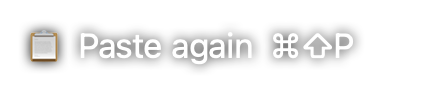
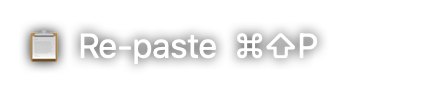
The ⌘⇧P row says Re-paste instead of Paste again
Victor: "The label for the tooltip for Command+Shift+P should be 'Re-paste'
instead of 'Paste Again'." The row, the /test/state report, the twin-row
eval and the docs quoting it; his original quote in PasteHint stays verbatim.

Changed region(s): [[0.1789, 0.3043, 0.8349, 0.7391]]

diff --git a/docs/overlay-states.html b/docs/overlay-states.html
@@ -139,9 +139,9 @@
       <section class="card" id="bound-idle">
         <header>
           <h3>Bound, standing by</h3>
-          <div class="tags"><span class="tag tag-chip" title="bare text beside the cursor — no blur, no shadow, no ✕">chip</span><span class="tag">alpha 0.80</span><span class="tag">48×45 pt</span></div>
+          <div class="tags"><span class="tag tag-chip" title="bare text beside the cursor — no blur, no shadow, no ✕">chip</span><span class="tag">alpha 0.80</span><span class="tag">121×46 pt</span></div>
         </header>
-        <div class="shot"><img src="states/bound-idle.png" width="48" height="45" style="opacity:0.8" alt="Bound, standing by"></div>
+        <div class="shot"><img src="states/bound-idle.png" width="121" height="46" style="opacity:0.8" alt="Bound, standing by"></div>
         <p class="when">From ⌘⌃B (or ◀ + 🔼, or ◀ + 🛞 with Logi gestures off) until something happens.</p>
         <p class="note">A microphone, and nothing else. The <code>folder@branch</code> it used to spell out is the answer to a question only asked at the moment he opens his mouth, and it was being said beside the pointer all day instead — so it now waits for the dictation. <strong>The same glyph for every destination</strong>: at rest the only thing worth saying is <em>armed</em>, and bound has to look different from unbound, where there is no chip at all. Which terminal it is, is a menu away.</p>
         <code class="slug">bound-idle</code>
@@ -294,9 +294,9 @@
       <section class="card" id="listening-overrun-blinking">
         <header>
           <h3>Nine minutes — one minute left, and it blinks</h3>
-          <div class="tags"><span class="tag tag-chip" title="bare text beside the cursor — no blur, no shadow, no ✕">chip</span><span class="tag">alpha 0.80</span><span class="tag">308×93 pt</span></div>
+          <div class="tags"><span class="tag tag-chip" title="bare text beside the cursor — no blur, no shadow, no ✕">chip</span><span class="tag">alpha 0.80</span><span class="tag">308×117 pt</span></div>
         </header>
-        <div class="shot"><img src="states/listening-overrun-blinking.png" width="308" height="93" style="opacity:0.8" alt="Nine minutes — one minute left, and it blinks"></div>
+        <div class="shot"><img src="states/listening-overrun-blinking.png" width="308" height="117" style="opacity:0.8" alt="Nine minutes — one minute left, and it blinks"></div>
         <p class="when">The tenth minute of a dictation, right up to the hard stop that ends it.</p>
         <p class="note"><strong>The wash is full and now breathes</strong>, about once a second, for the last minute — a state became an event, because there is something to do about it. The words never flicker: what pulses is the ground, so the row stays readable through the minute he is most likely to still be talking into it. <strong>At ten minutes the relay stops the dictation itself</strong> and delivers what it has — the caret, the bound terminal, or the new terminal it was going to spawn — because <em>&quot;orice ar fi fost, legată, nelegată, se termină&quot;</em>, and because ten minutes of speech is not something to throw away for running out of clock. A stop, therefore, never a cancel. Photographed at the dim end of the breath; at the bright end it is the picture above, full width.</p>
         <code class="slug">listening-overrun-blinking</code>
@@ -476,12 +476,12 @@
       </section>
       <section class="card" id="paste-again">
         <header>
-          <h3>Paste again — the keys, after every sentence</h3>
+          <h3>Re-paste — the keys, after every sentence</h3>
           <div class="tags"><span class="tag tag-chip" title="bare text beside the cursor — no blur, no shadow, no ✕">chip</span><span class="tag">alpha 0.80</span><span class="tag">218×46 pt</span></div>
         </header>
-        <div class="shot"><img src="states/paste-again.png" width="218" height="46" style="opacity:0.8" alt="Paste again — the keys, after every sentence"></div>
+        <div class="shot"><img src="states/paste-again.png" width="218" height="46" style="opacity:0.8" alt="Re-paste — the keys, after every sentence"></div>
         <p class="when">Three seconds after every delivered sentence (caret, bound terminal, new session, a held sentence&#x27;s release) and after a cancelled prompt. Never after a cancelled dictation.</p>
-        <p class="note"><strong>An ordinary row</strong>, built like <code>☠ Kamikaze</code>: 📋, <code>Paste again</code>, then <code>⌘⇧P</code> in the chip&#x27;s own face. It was a keycap in a window of its own until 2026-09-23 — a white outline round the keys in another font — and Victor read the border and the font as wrong. Unbound, it is the chip&#x27;s only row, which is what puts the chip beside the pointer.</p>
+        <p class="note"><strong>An ordinary row</strong>, built like <code>☠ Kamikaze</code>: 📋, <code>Re-paste</code>, then <code>⌘⇧P</code> in the chip&#x27;s own face. It was a keycap in a window of its own until 2026-09-23 — a white outline round the keys in another font — and Victor read the border and the font as wrong. Unbound, it is the chip&#x27;s only row, which is what puts the chip beside the pointer.</p>
         <code class="slug">paste-again</code>
       </section>
       <section class="card" id="flash-nothing-to-paste">
@@ -639,7 +639,7 @@
       </section>
     </div>
 <footer>
-  Generated from <code>OverlayStates.swift</code> · repo at 6d546b0 · 23 Sep 2026 · built 23 Sep 2026, 19:26
+  Generated from <code>OverlayStates.swift</code> · repo at 12408b2 · 23 Sep 2026 · built 24 Sep 2026, 07:18
 </footer>
 <button class="toggle" onclick="document.body.classList.toggle('light')">Backdrop: dark / light</button>
 </body>

diff --git a/Sources/WalkieTalkie/RelayWindow.swift b/Sources/WalkieTalkie/RelayWindow.swift
@@ -269,7 +269,7 @@ private let frontLabel = NSTextField(labelWithString: "")
     private let kamikazeRow = NSView()
     private let kamikazeGlyph = NSImageView()
     private let kamikazeInfo = NSTextField(labelWithString: "Kamikaze")
-    /// **`📋 Paste again ⌘⇧P`** (2026-09-23) — for five seconds after every
+    /// **`📋 Re-paste ⌘⇧P`** (2026-09-23) — for five seconds after every
     /// delivered sentence (and a cancelled prompt), the keys that bring the
     /// last text back, whether it went out as a prompt or as a clean dictation.
     /// `PasteHint` decides when; this is only the row.
@@ -283,7 +283,7 @@ private let frontLabel = NSTextField(labelWithString: "")
     /// `evals/test_paste_row.py` keeps it that way.
     private let pasteRow = NSView()
     private let pasteGlyph = NSImageView()
-    private let pasteInfo = NSTextField(labelWithString: "Paste again  \(PasteHint.keys)")
+    private let pasteInfo = NSTextField(labelWithString: "Re-paste  \(PasteHint.keys)")
     /// Elements ⌘-picked in Chrome and still waiting for the sentence they belong
     /// to — how many, and what the newest one was.
     ///
@@ -1823,7 +1823,7 @@ private let frontLabel = NSTextField(labelWithString: "")
             recordWidth = glyphColumn + recordDotGap + ceil(recordInfo.frame.width)
         }
         let pickWidth = pickText.map { glyphRowWidth($0) } ?? 0
-        // The emoji rows (`☠ Kamikaze`, `📋 Paste again ⌘⇧P`) ask for their
+        // The emoji rows (`☠ Kamikaze`, `📋 Re-paste ⌘⇧P`) ask for their
         // width like the recording row does. The paste row is often the only
         // row on the chip, and a chip measured without it is a chip 0 wide.
         var emojiRowsWidth: CGFloat = 0
@@ -2577,7 +2577,7 @@ private let frontLabel = NSTextField(labelWithString: "")
     /// midline. Nothing is clipped, and neither half has to know anything about
     /// the other's font.
     /// **The plain row: an emoji in the icon column and words beside it** —
-    /// `☠ Kamikaze`, `📋 Paste again ⌘⇧P`. One constructor so the rows cannot
+    /// `☠ Kamikaze`, `📋 Re-paste ⌘⇧P`. One constructor so the rows cannot
     /// drift apart in face, size, ink or glyph.
     private func installEmojiRow(_ row: NSView, glyph: NSImageView, label: NSTextField,
                                  emoji: String) {
@@ -4091,7 +4091,7 @@ private let frontLabel = NSTextField(labelWithString: "")
         layoutContent()
     }
 
-    /// The `📋 Paste again ⌘⇧P` row is up — see `pasteRow`; `PasteHint` times it.
+    /// The `📋 Re-paste ⌘⇧P` row is up — see `pasteRow`; `PasteHint` times it.
     private(set) var pasteHint = false
 
     func setPasteHint(_ on: Bool) {

diff --git a/Sources/WalkieTalkie/OverlayStates.swift b/Sources/WalkieTalkie/OverlayStates.swift
@@ -378,9 +378,9 @@ enum OverlayStates {
                 o.flash("⚠ Whisper unavailable — no module named mlx_whisper", duration: 60)
             },
 
-            Shot(slug: "paste-again", group: "Flashes", title: "Paste again — the keys, after every sentence",
+            Shot(slug: "paste-again", group: "Flashes", title: "Re-paste — the keys, after every sentence",
                  when: "Three seconds after every delivered sentence (caret, bound terminal, new session, a held sentence's release) and after a cancelled prompt. Never after a cancelled dictation.",
-                 note: "**An ordinary row**, built like `☠ Kamikaze`: 📋, `Paste again`, then `⌘⇧P` in the chip's own face. It was a keycap in a window of its own until 2026-09-23 — a white outline round the keys in another font — and Victor read the border and the font as wrong. Unbound, it is the chip's only row, which is what puts the chip beside the pointer.",
+                 note: "**An ordinary row**, built like `☠ Kamikaze`: 📋, `Re-paste`, then `⌘⇧P` in the chip's own face. It was a keycap in a window of its own until 2026-09-23 — a white outline round the keys in another font — and Victor read the border and the font as wrong. Unbound, it is the chip's only row, which is what puts the chip beside the pointer.",
                  shape: "chip", alpha: 0.80) { o in
                 o.setPasteHint(true)
             },

diff --git a/Sources/WalkieTalkie/PasteHint.swift b/Sources/WalkieTalkie/PasteHint.swift
@@ -54,9 +54,10 @@ import AppKit
 /// to display yet another row in the mouse tooltip. Technically, it's just
 /// like, for example, transcribing Kamikaze … It should have the icon of the
 /// paste … the text should say 'Paste again', and then the shortcuts, just
-/// like any text in the tooltip."*
+/// like any text in the tooltip."* — `Re-paste` since 2026-09-24 (*"should be
+/// 'Re-paste' instead of 'Paste Again'"*).
 ///
-/// So it is `RelayWindow.pasteRow` — `📋 Paste again  ⌘⇧P`, built by the same
+/// So it is `RelayWindow.pasteRow` — `📋 Re-paste  ⌘⇧P`, built by the same
 /// `installEmojiRow` as `☠ Kamikaze`, in `hintFont`, white with the halo on the
 /// bare chip, no border. It rides the pointer because the chip does; it is at
 /// the chip's own opacity because it is the chip; and when nothing else is on
@@ -110,7 +111,7 @@ final class PasteHint {
     /// `GET /test/state.pasteHint`.
     var report: [String: Any] {
         ["visible": chip?.pasteHint ?? false,
-         "pulsing": pulsing, "hold": Self.hold, "row": "Paste again  \(Self.keys)"]
+         "pulsing": pulsing, "hold": Self.hold, "row": "Re-paste  \(Self.keys)"]
     }
 
     /// **Put the row up for `hold`, then take it down.** `reason` is for the log

diff --git a/Sources/WalkieTalkie/main.swift b/Sources/WalkieTalkie/main.swift
@@ -111,7 +111,7 @@ if let out = ProcessInfo.processInfo.environment["WT_SHOOT_HALO"] {
     exit(0)
 }
 
-// The chip's `📋 Paste again ⌘⇧P` row on a dark ground and a light one — alone,
+// The chip's `📋 Re-paste ⌘⇧P` row on a dark ground and a light one — alone,
 // and under `☠ Kamikaze` for comparison — and quit. The chip cannot be
 // captured, so this is the only way to see it. See `PasteHint.shoot`.
 if let out = ProcessInfo.processInfo.environment["WT_SHOOT_HINT"] {

diff --git a/evals/test_paste_row.py b/evals/test_paste_row.py
@@ -12,7 +12,7 @@ rounded outline round `⌘⇧P`, 15 pt medium). The row that replaced it is
 `RelayWindow.pasteRow`, and this test keeps it the Kamikaze row's twin:
 
 * both are built by the one constructor, `installEmojiRow` (face, size, ink,
-  glyph), and the paste one says `📋` / `Paste again` / `PasteHint.keys`;
+  glyph), and the paste one says `📋` / `Re-paste` / `PasteHint.keys`;
 * **every other line that touches a Kamikaze view has a paste twin** — the
   layout through `layoutGlyphRow`, the height, the width, the halo and the
   white ink on the bare chip, the plain ink off it. That is the list a new row
@@ -56,9 +56,9 @@ def check(relay: str, hint: str) -> list[str]:
     if not any(re.search(r'installEmojiRow\(pasteRow, glyph: pasteGlyph, '
                          r'label: pasteInfo, emoji: "📋"\)', l) for l in lines):
         problems.append("the paste row is not built by `installEmojiRow(…, emoji: \"📋\")`")
-    if not any('pasteInfo = NSTextField(labelWithString: "Paste again' in l
+    if not any('pasteInfo = NSTextField(labelWithString: "Re-paste' in l
                and "PasteHint.keys" in l for l in lines):
-        problems.append("the paste row does not say `Paste again` + `PasteHint.keys`")
+        problems.append("the paste row does not say `Re-paste` + `PasteHint.keys`")
 
     install = [l for l in lines if l.startswith("private func installEmojiRow")]
     if not install:
@@ -126,7 +126,7 @@ def main(argv: list[str]) -> int:
         for problem in problems:
             print(f"  ✗ {problem}")
         return 1
-    print("✓ `📋 Paste again ⌘⇧P` is built, laid out and inked exactly like `☠ Kamikaze`")
+    print("✓ `📋 Re-paste ⌘⇧P` is built, laid out and inked exactly like `☠ Kamikaze`")
     return 0
 
 

diff --git a/CLAUDE.md b/CLAUDE.md
@@ -162,7 +162,7 @@ This file holds only what every session needs. Everything else moved on 2026-09-
   stands the installed app down and puts it back.
 - Nothing that rides the pointer can be screenshot (`sharingType = .none`; `RELAY_CAPTURABLE=1`
   no longer works on macOS 15). Review with: the states page; `kill -USR1 <pid>` →
-  `<home>/snapshot.png`; `WT_SHOOT_MENU`, `WT_SHOOT_HINT` (the chip's `📋 Paste again ⌘⇧P` row on both grounds), `WT_SHOOT_HALO` (+
+  `<home>/snapshot.png`; `WT_SHOOT_MENU`, `WT_SHOOT_HINT` (the chip's `📋 Re-paste ⌘⇧P` row on both grounds), `WT_SHOOT_HALO` (+
   `…-arrow.png`, whose middle column is the arrows at **twice** their size — the pose they wear
   while the words are in flight),
   all `=<path> ./.build/debug/WalkieTalkie`; `WT_HALO_DEMO=<seconds>` (the one capturable run; `WT_HALO_STYLE=<effect>` picks a
@@ -201,7 +201,7 @@ three; `MusicBridge` is a WebSocket on 8920).
 | `POST /test/wispr-scratchpad` `{"down": true}` · `{"up": true}` · `{"tap": true}` | Wispr's *Open Scratchpad* chord — **held** between two calls (per Wispr's docs: tap opens/closes the window, hold is push-to-talk **into the Scratchpad**, double-tap is hands-free into it). Read from `prefs.user.shortcuts` by action name at call time; fallback **`79` (F18)** — a single key, because a held ⌘⌥ would hijack every key Victor presses for the length of a sentence — `WISPR_SCRATCHPAD_KEYS` overrides (the same variable `helpers/wispr_loopback.py` reads); modifiers carry their device-dependent right-hand bits; a **120 s dead-man's switch** releases a hold nobody came back for |
 | `POST /test/mic` `{"id": "auto"｜"xlr"｜"mac"｜"rx"｜"bose"}` | **pick the microphone**, the same call the `Microphone` menu row makes — answers `chosen` (what he asked for), `resolved` (what would actually record, after the fallback for a device that is not plugged in), `available` and the chip's `mark`. With no id it only reports; `GET /engine.mic` is the same block |
 | `POST /test/input` `{"name": "…"}` | point the **system's** default input at a device (substring match) and say what it was; with no name it only reports. For `tools/wispr-test.sh` |
-| `POST /test/paste-hint` | one showing of the **`📋 Paste again ⌘⇧P` row** on the chip (2026-09-22; a chip row since 2026-09-23, 5 s after the last key) — without having to deliver a sentence to see it. `GET /test/state.pasteHint` reads it back; `WT_SHOOT_HINT=<path>` draws it on both grounds with no app running |
+| `POST /test/paste-hint` | one showing of the **`📋 Re-paste ⌘⇧P` row** on the chip (2026-09-22; a chip row since 2026-09-23, 5 s after the last key) — without having to deliver a sentence to see it. `GET /test/state.pasteHint` reads it back; `WT_SHOOT_HINT=<path>` draws it on both grounds with no app running |
 | `POST /test/cancel` | the ✕'s cancel: kill the dictation in flight, whichever app is holding the microphone |
 | `POST /test/recover` | recover the cancelled dictation |
 | `POST /test/gesture` `{"name": "forward-left"}` | post the ⌃⌥⌘F-key chord Options+ makes for **one mouse gesture**, so `HotkeyTap`'s gesture branch runs as for his hand. `forward-click/-right/-left/-up/-down`, `back-click/-right/-left/-up/-down`; 400 lists them. The F7 **bind** sub-case needs a real held left button (`leftIsHeld` asks the window server) and is not fakeable — `forward-click` is always the caret dictation |
@@ -267,7 +267,7 @@ sits at rest there.
   after a **prompt is cancelled**. Victor: *"indiferent prin ce mecanism am închis o dictare … să
   afișeze pentru trei secunde, cu opțiunea de 80% pentru două secunde și jumătate … uneori îl
   plasez greșit, lasă-mă să-mi amintesc constant"*. **It is an ordinary chip row since the
-  afternoon of 2026-09-23** — `📋 Paste again  ⌘⇧P`, built by the same `installEmojiRow` as
+  afternoon of 2026-09-23** — `📋 Re-paste  ⌘⇧P`, built by the same `installEmojiRow` as
   `☠ Kamikaze`, for **5 s after the last keystroke** (`PasteHint.hold`; every key restarts it since
   the evening of 2026-09-23 — *"whatever I press … just in case I need to paste it again"*, the
   `⌘Z` that undoes a misplaced sentence had run the clock out); unbound it is the chip's only row. It was a

diff --git a/.claude/rules/replace-wispr-and-halo.md b/.claude/rules/replace-wispr-and-halo.md
@@ -388,7 +388,7 @@ e nou — să afișeze pentru trei secunde, cu opțiunea de 80% pentru două sec
   new door. That case has *Recover Cancelled Dictation*, which is a different offer and already
   made in the banner.
 - **An ordinary chip row, not a window of its own** (2026-09-23, afternoon, commit `629040b`) —
-  `RelayWindow.pasteRow`, `📋 Paste again  ⌘⇧P`, built by the same `installEmojiRow` as
+  `RelayWindow.pasteRow`, `📋 Re-paste  ⌘⇧P`, built by the same `installEmojiRow` as
   `☠ Kamikaze`: `hintFont`, `secondaryLabelColor` on a light ground / white with the halo on a
   dark one, no border. Victor rejected the panel it used to be: *"it has a border around it, with a
   different font, which is wrong … I just want you to display yet another row in the mouse
